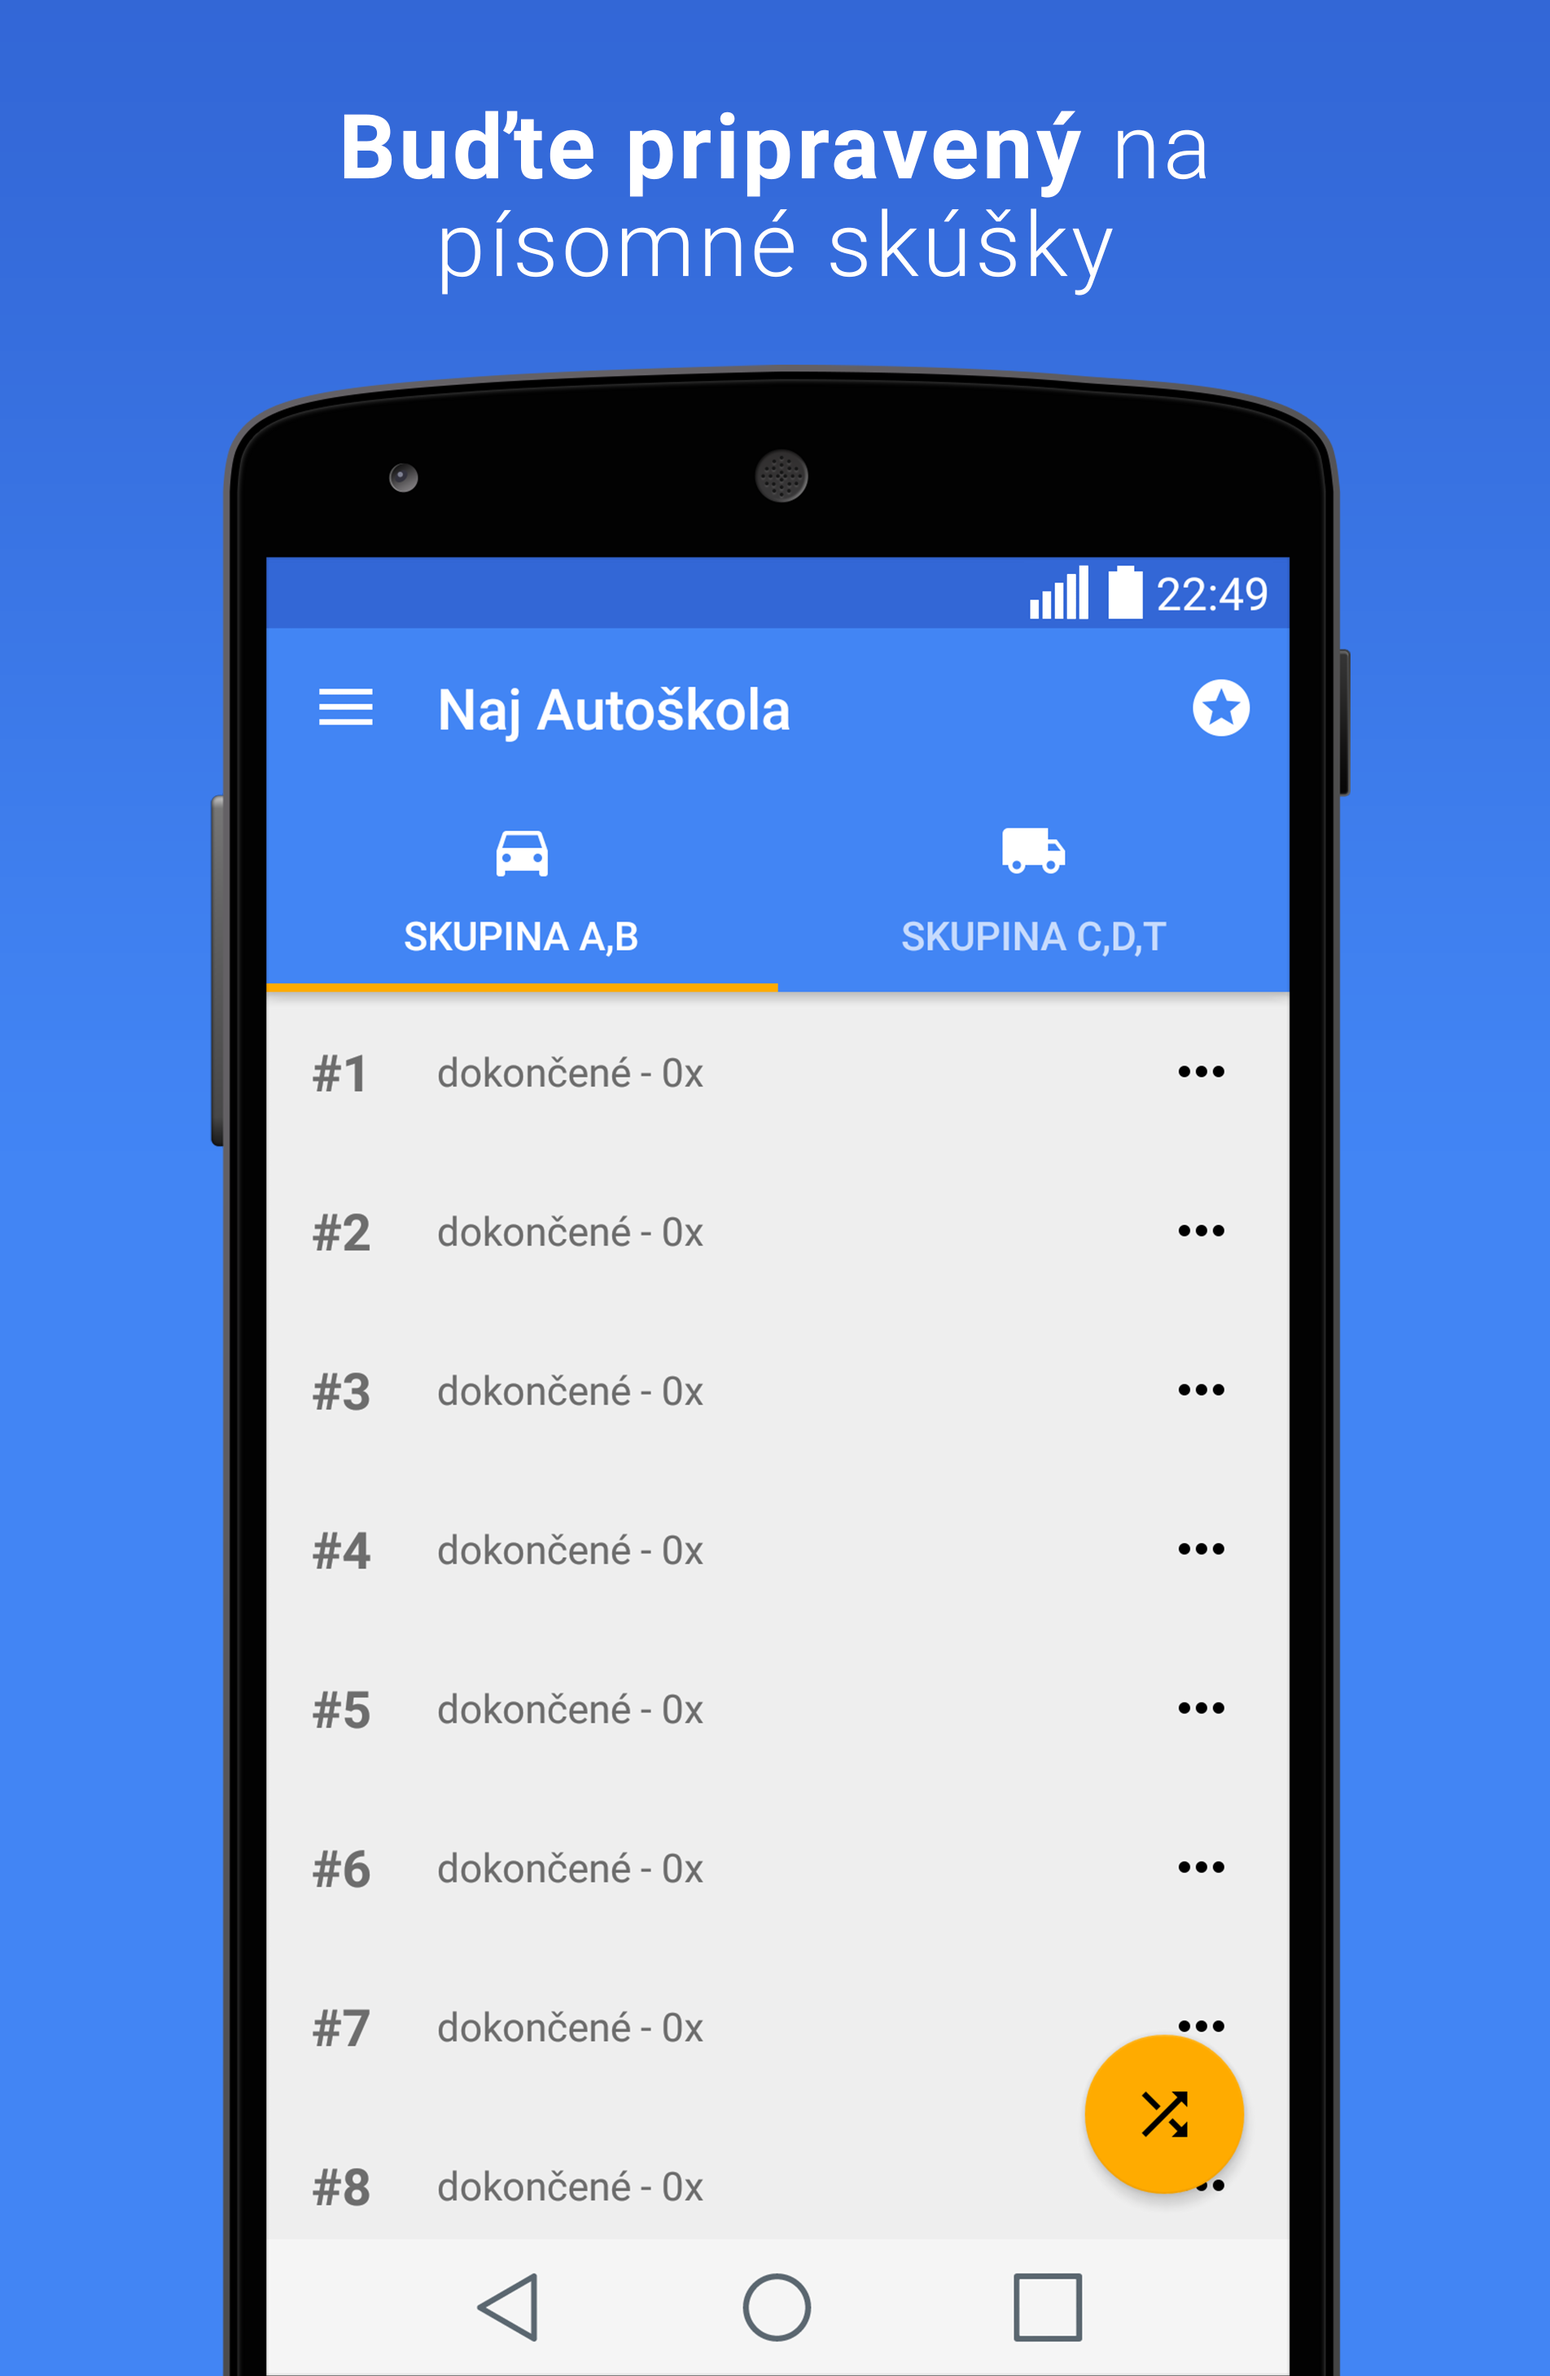
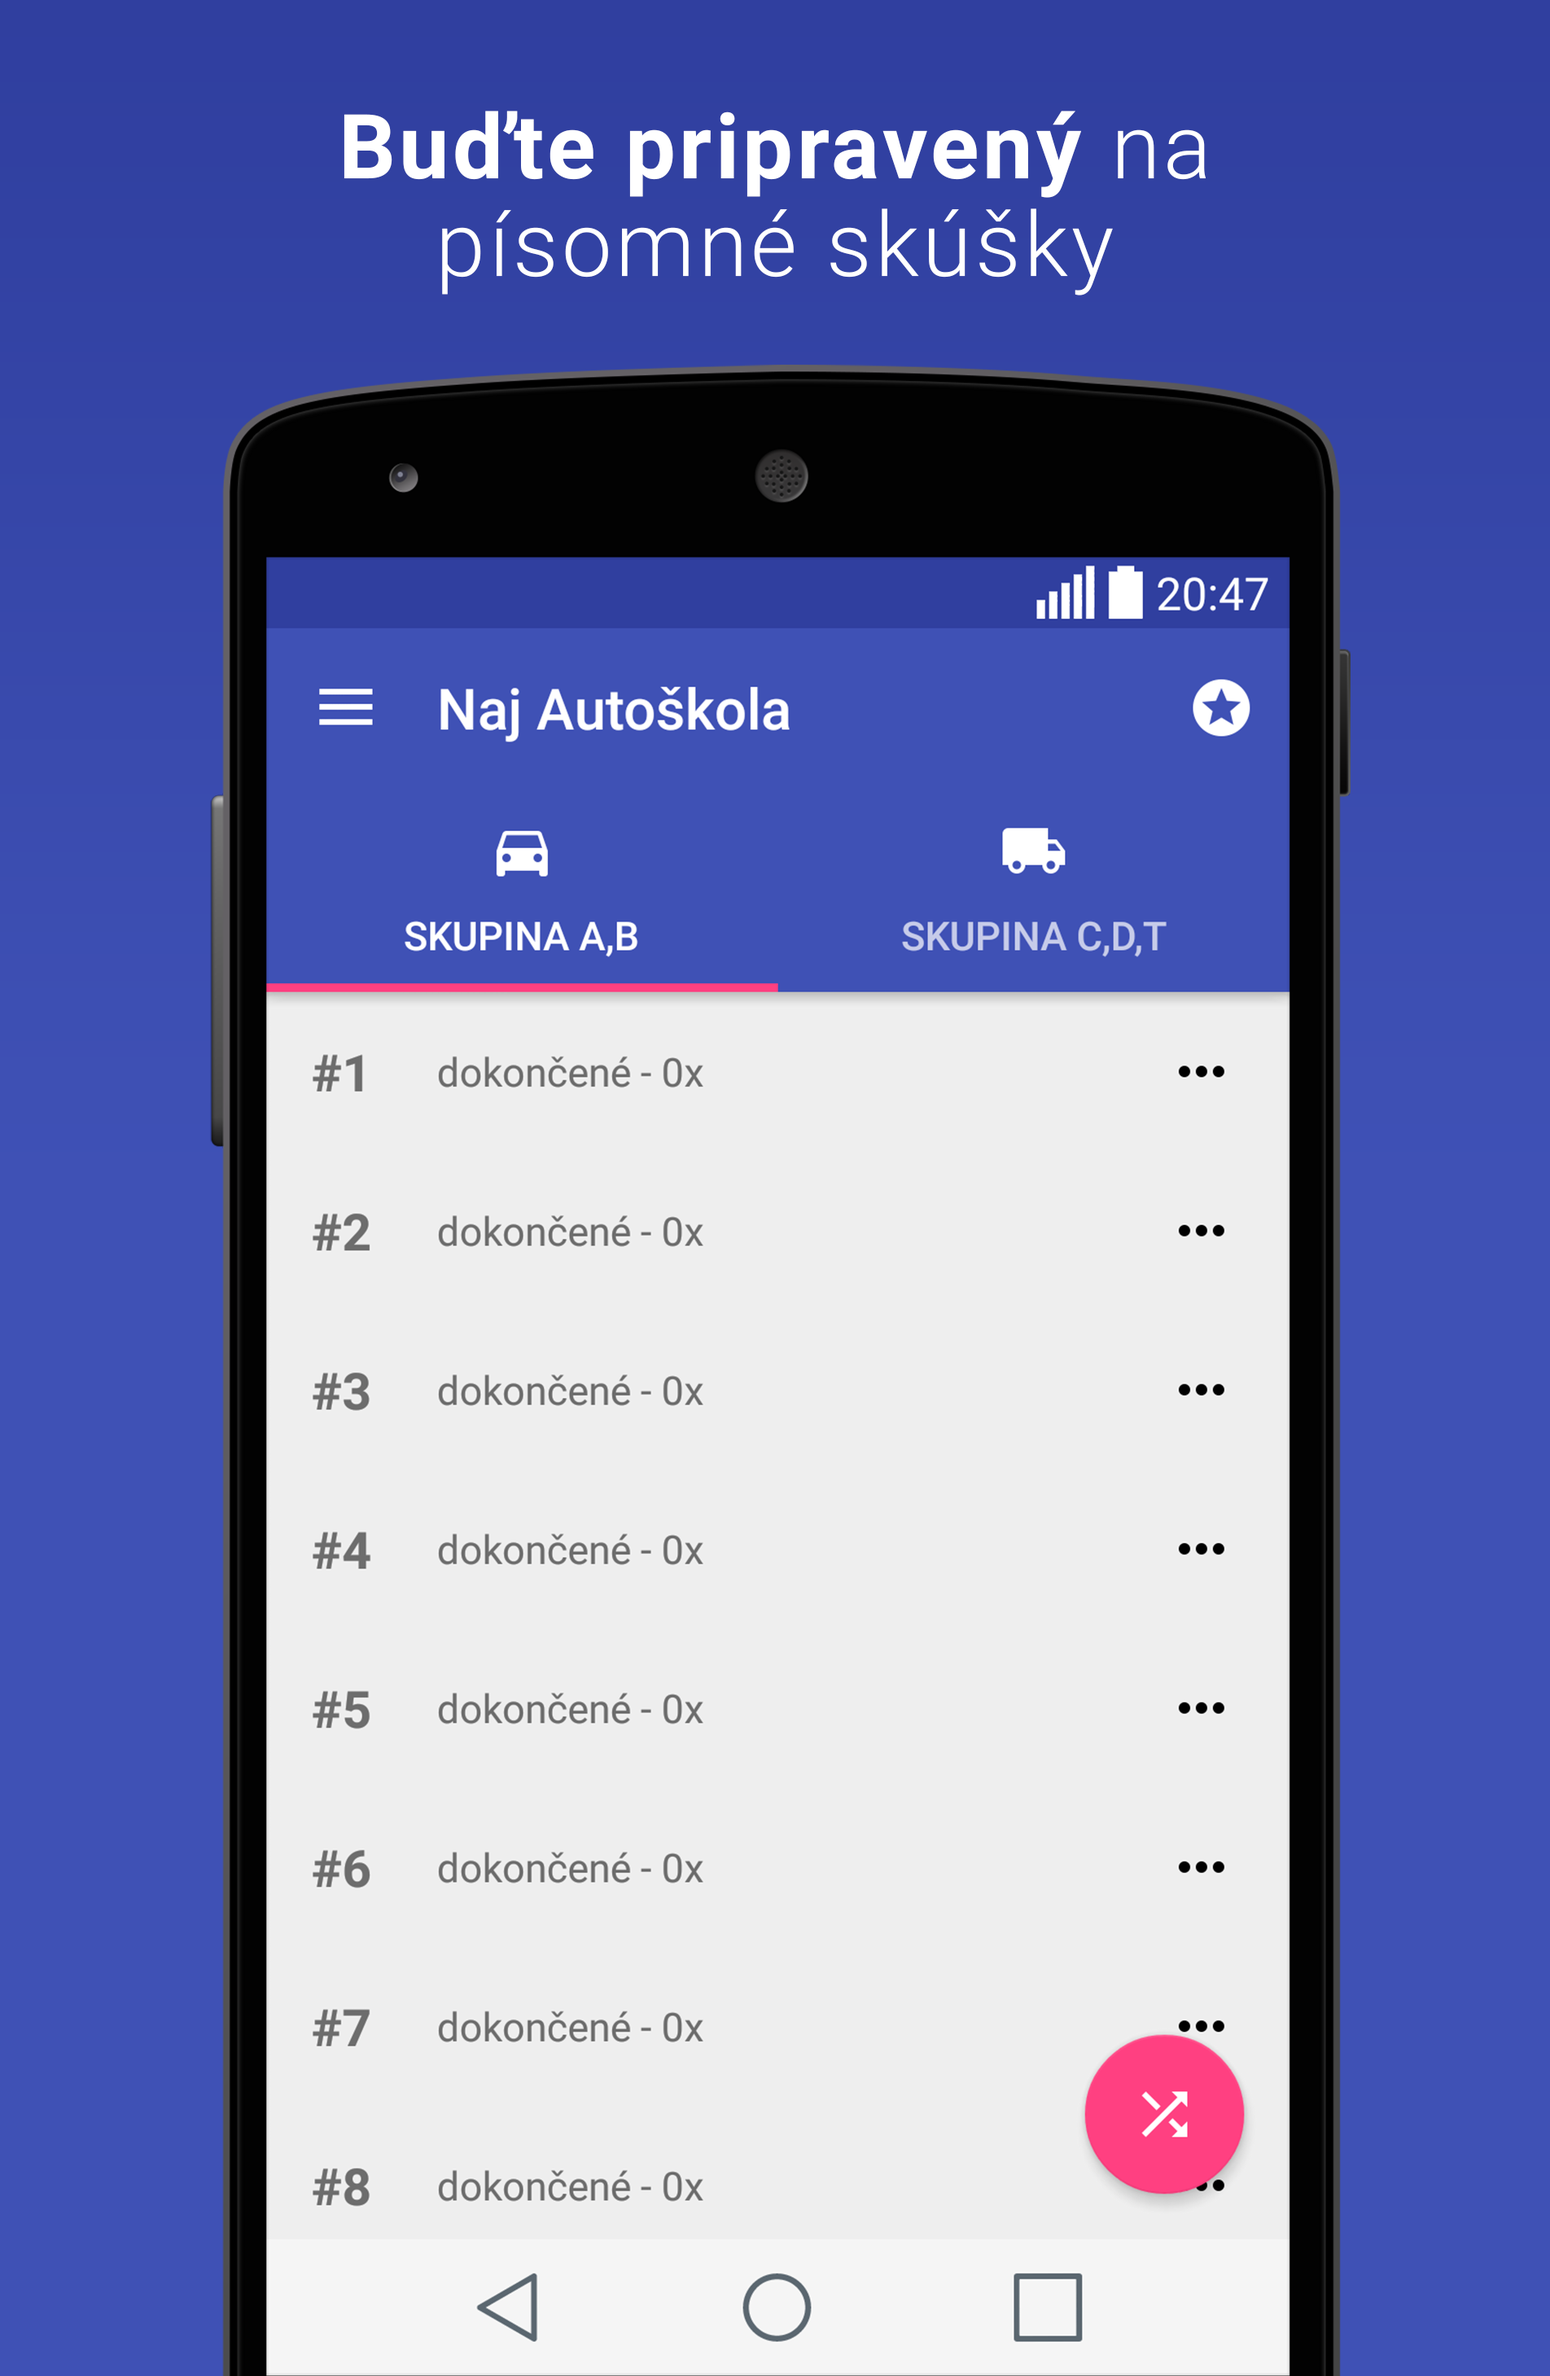
New TestActivity design

diff --git a/Android/app/src/main/java/com/spiraclestudios/autoskola/Helper.java b/Android/app/src/main/java/com/spiraclestudios/autoskola/Helper.java
@@ -36,7 +36,7 @@ public class Helper {
     public static final String facebookURL = "https://facebook.com/spiraclestudios";
     public static final String twitterURL = "https://twitter.com/SpiracleStudios";
     public static final String youtubeURL = "https://youtube.com/channel/UCYF2X1mTodkkRkKTp0ER2aw";
-    public static final String googlePlayURL = "https://play.google.com/store/apps/developer?id=Spiracle+Studios";
+    public static final String googlePlayURL = "http://play.google.com/store/search?q=pub:Spiracle%20Studios";
 
     public static boolean demoMode = false;
 

diff --git a/Android/app/src/main/java/com/spiraclestudios/autoskola/Activities/SendFeedbackActivity.java b/Android/app/src/main/java/com/spiraclestudios/autoskola/Activities/SendFeedbackActivity.java
@@ -153,7 +153,7 @@ public class SendFeedbackActivity extends BaseActivity
             String subject = "[Autoškola] ";
             String message = feedback_message.getText().toString();
 
-            Timber.d(TAG, "message: " + message);
+            Timber.d("message: " + message);
 
             // Check if a message was entered
             if (TextUtils.isEmpty(message)) {

diff --git a/Android/app/src/main/java/com/spiraclestudios/autoskola/Fragments/RoadSignsListFragment.java b/Android/app/src/main/java/com/spiraclestudios/autoskola/Fragments/RoadSignsListFragment.java
@@ -77,7 +77,7 @@ public class RoadSignsListFragment extends ListFragment {
                 android.R.layout.simple_list_item_activated_1,
                 android.R.id.text1,
                 DummyContent.ITEMS));*/
-        setListAdapter(new RoadSignsListAdapter());
+        //setListAdapter(new RoadSignsListAdapter());
     }
 
     @Override
